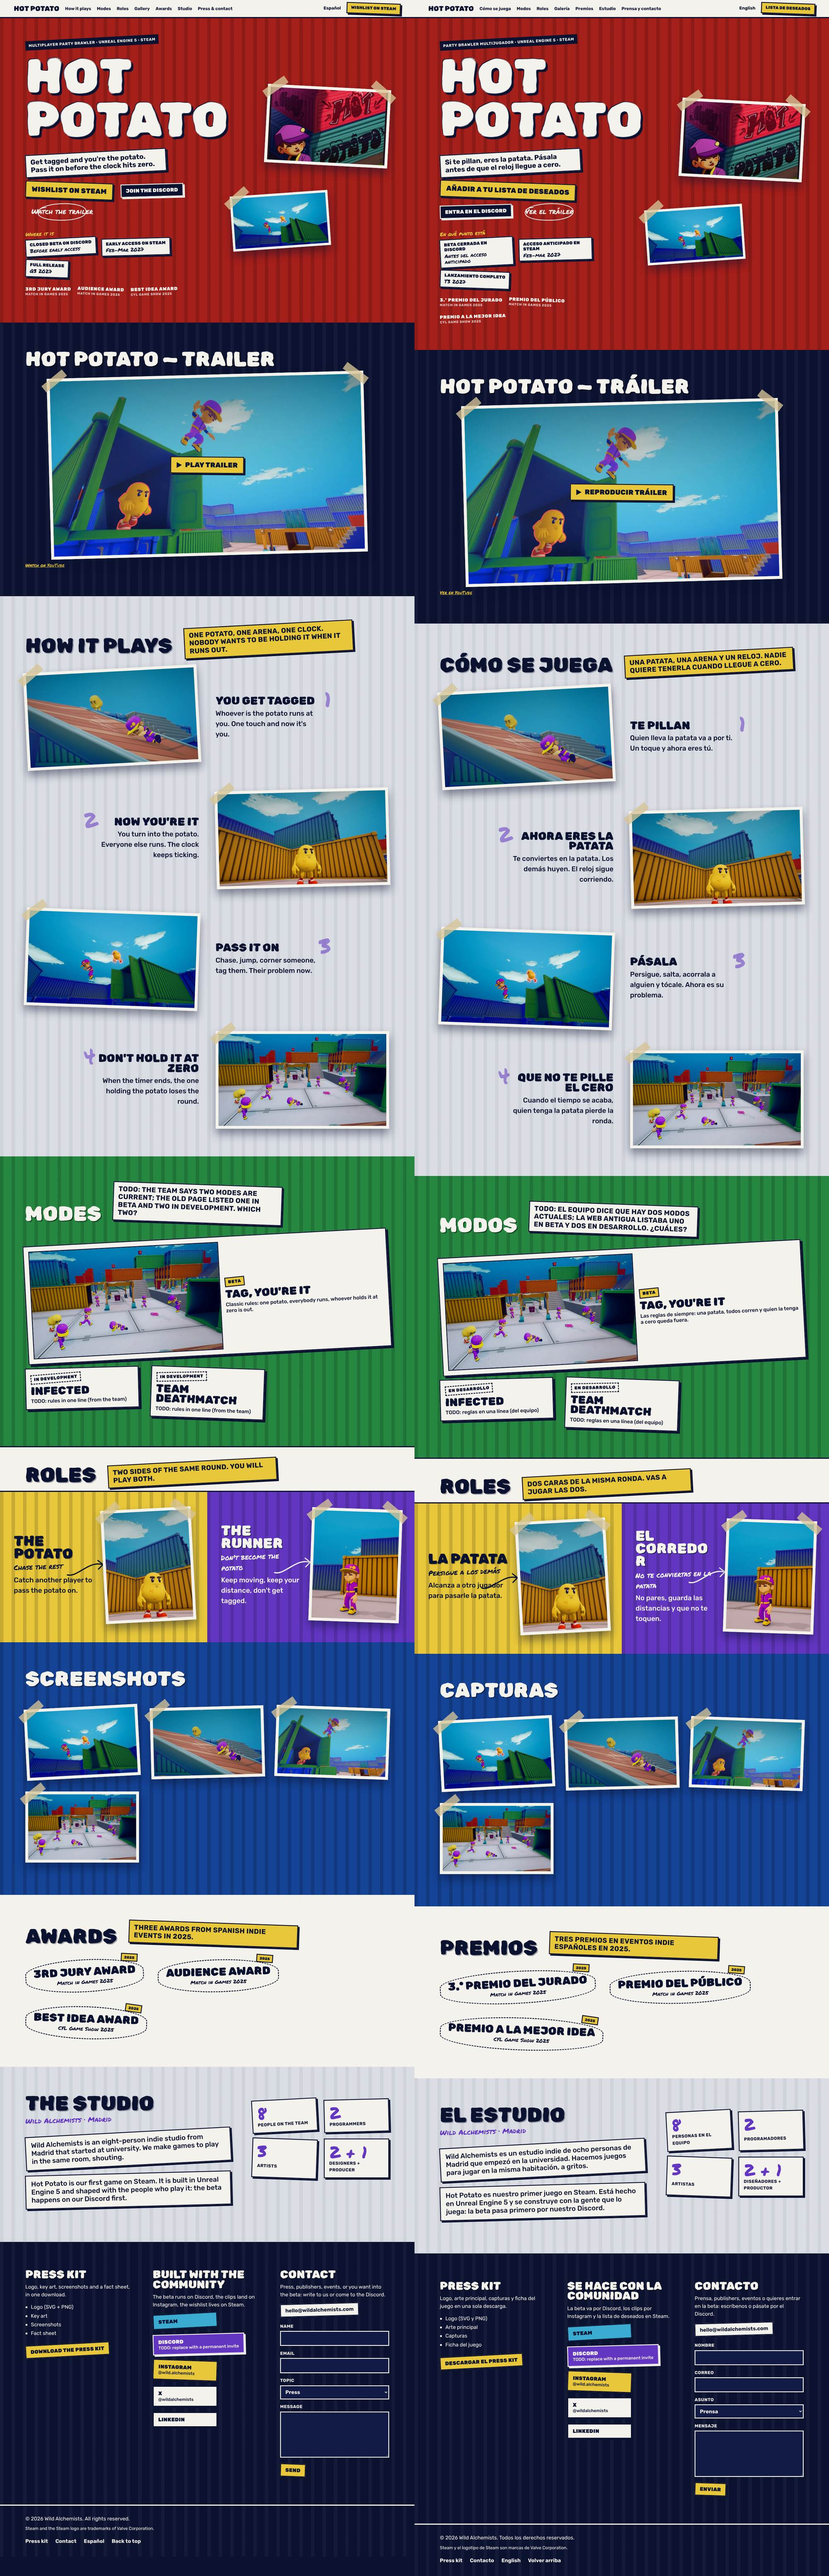
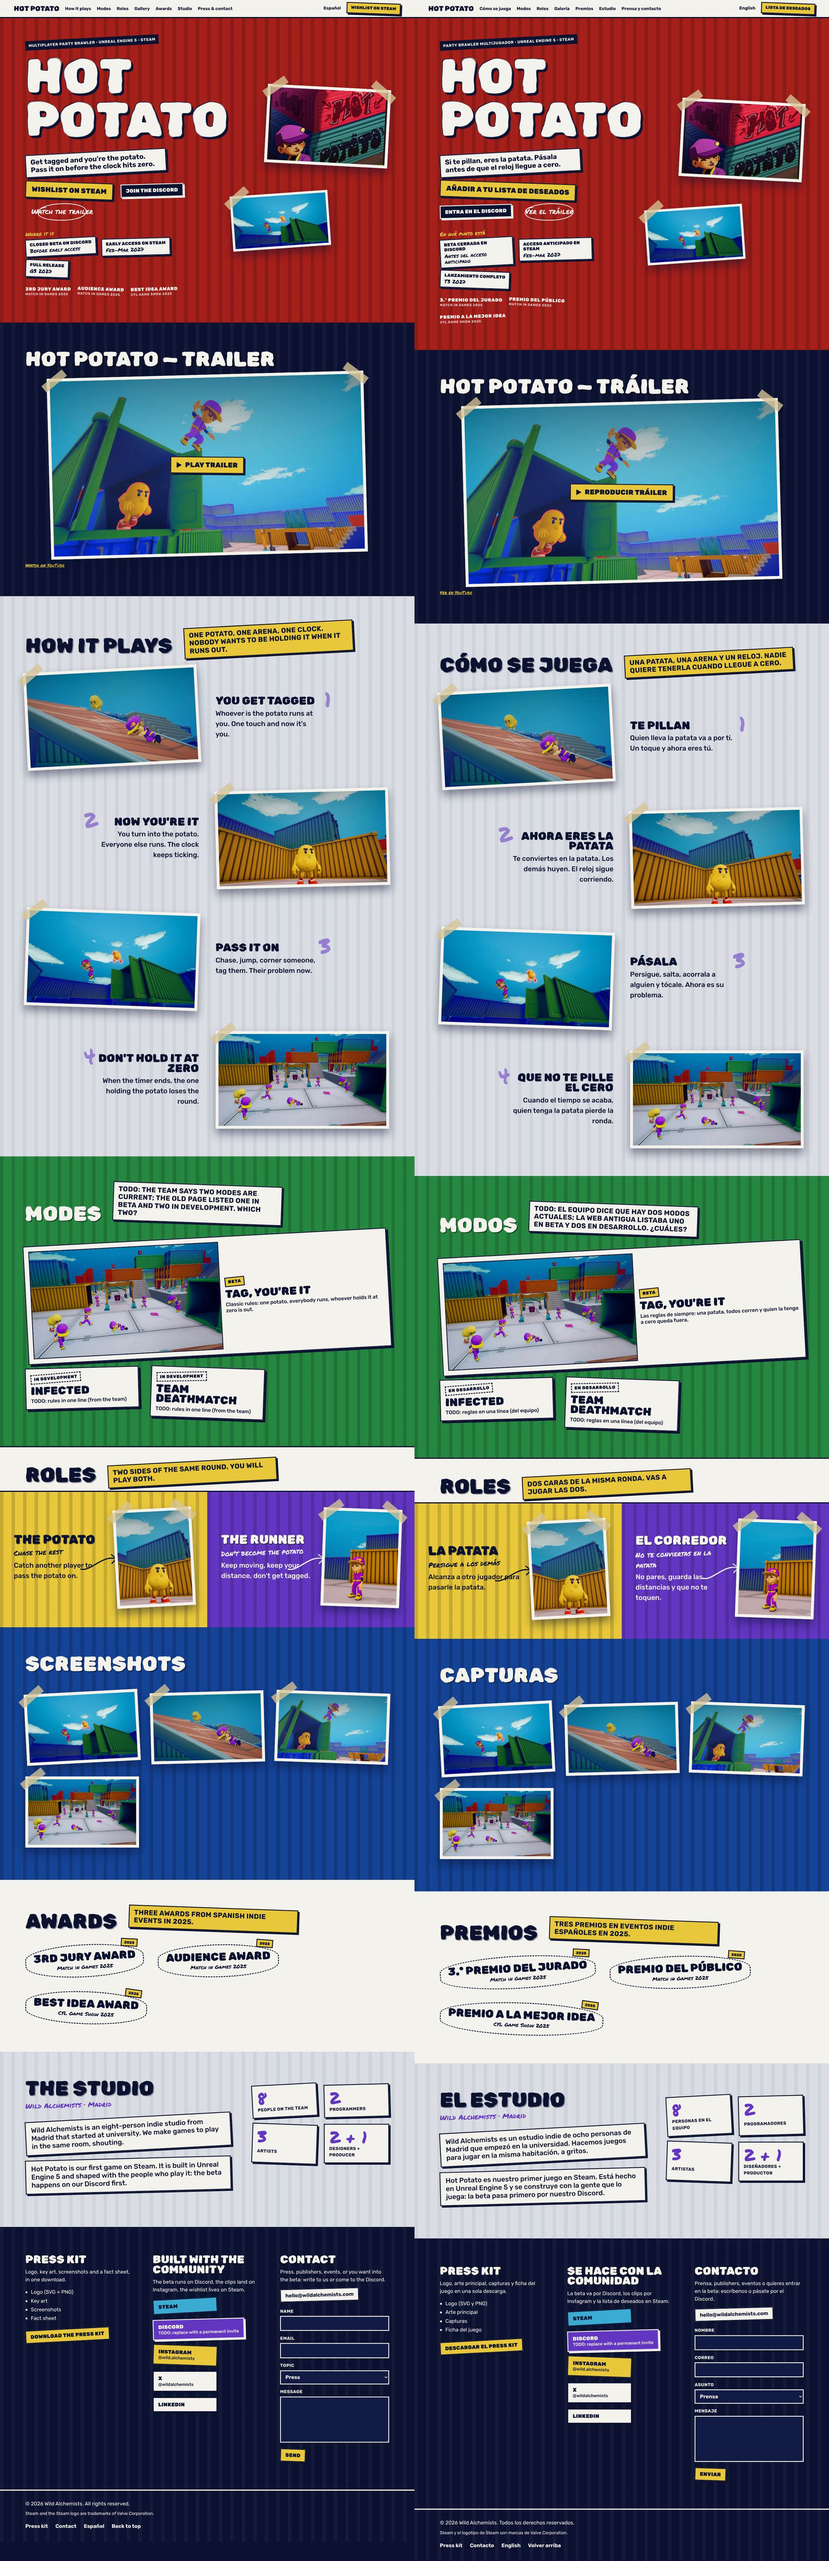
site: keep role names on one line in both languages
Claude-Session: https://claude.ai/code/session_01Xw9jLRi9iqTrYMHFaaF3Eq

diff --git a/src/styles.css b/src/styles.css
@@ -176,17 +176,17 @@ a.sticker:hover,button.sticker:hover{transform:rotate(0) translate(-2px,-2px)}
 .roles-head{padding:clamp(2rem,4vw,3rem) 0 1.4rem;border-top:4px solid var(--ink);border-bottom:4px solid var(--ink)}
 .roles-head .sec-head{margin-bottom:0}
 .walls{display:grid;grid-template-columns:1fr 1fr}
-.role{padding:clamp(2rem,4vw,4rem) var(--gutter) clamp(3rem,5vw,5rem);display:grid;grid-template-columns:minmax(0,1fr) minmax(0,1.1fr);gap:1.5rem;align-items:center;overflow:hidden}
+.role{padding:clamp(2rem,4vw,4rem) var(--gutter) clamp(3rem,5vw,5rem);display:grid;grid-template-columns:minmax(0,1.2fr) minmax(0,1fr);gap:1.5rem;align-items:center;overflow:hidden}
 .role-potato{background:var(--yellow);color:var(--ink)}
 .role-runner{background:var(--purple);color:var(--paper)}
-.role .h3{font-size:clamp(2rem,3.4vw,3.6rem);overflow-wrap:break-word;text-shadow:.04em .04em 0 rgba(11,18,48,.35)}
+.role .h3{font-size:clamp(2rem,3vw,3.4rem);overflow-wrap:normal;hyphens:manual;text-shadow:.04em .04em 0 rgba(11,18,48,.35)}
 .role-runner .h3{text-shadow:.04em .04em 0 var(--ink)}
 .role-role{font-size:var(--step-1);display:inline-block;margin:.4rem 0 .6rem;transform:rotate(-2deg)}
 .role-copy{position:relative}
 .role-copy p{font-weight:500;font-size:var(--step-1);max-width:28ch}
 .role .arrow{position:absolute;width:140px;height:80px;overflow:visible;right:-12%;top:38%}
 .role .arrow path{fill:none;stroke:currentColor;stroke-width:4;stroke-linecap:round;stroke-linejoin:round}
-.role .poster{aspect-ratio:4/5;width:100%;max-width:440px;justify-self:end}
+.role .poster{aspect-ratio:4/5;width:100%;max-width:400px;justify-self:end}
 .role .poster img{height:100%}
 
 /* ---------- gallery ---------- */
